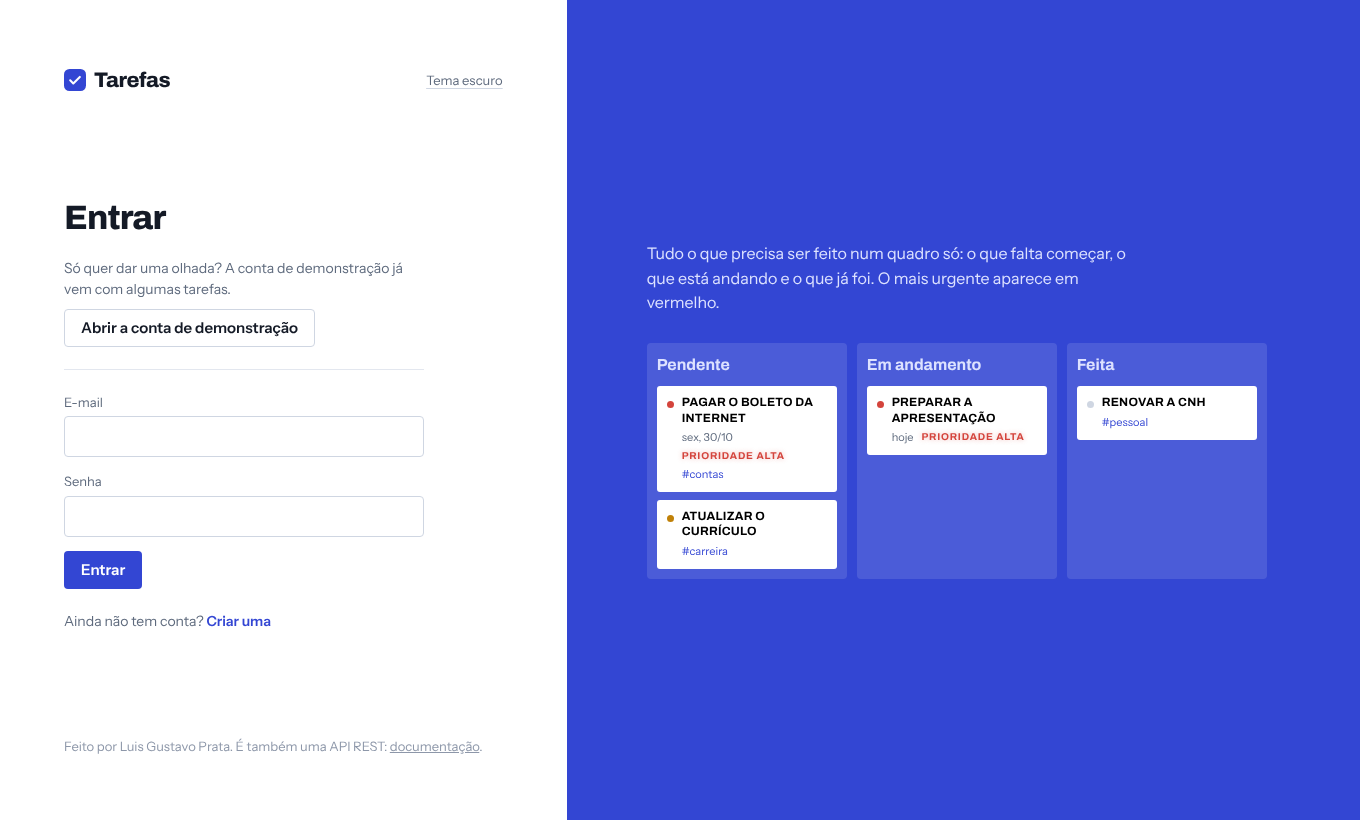
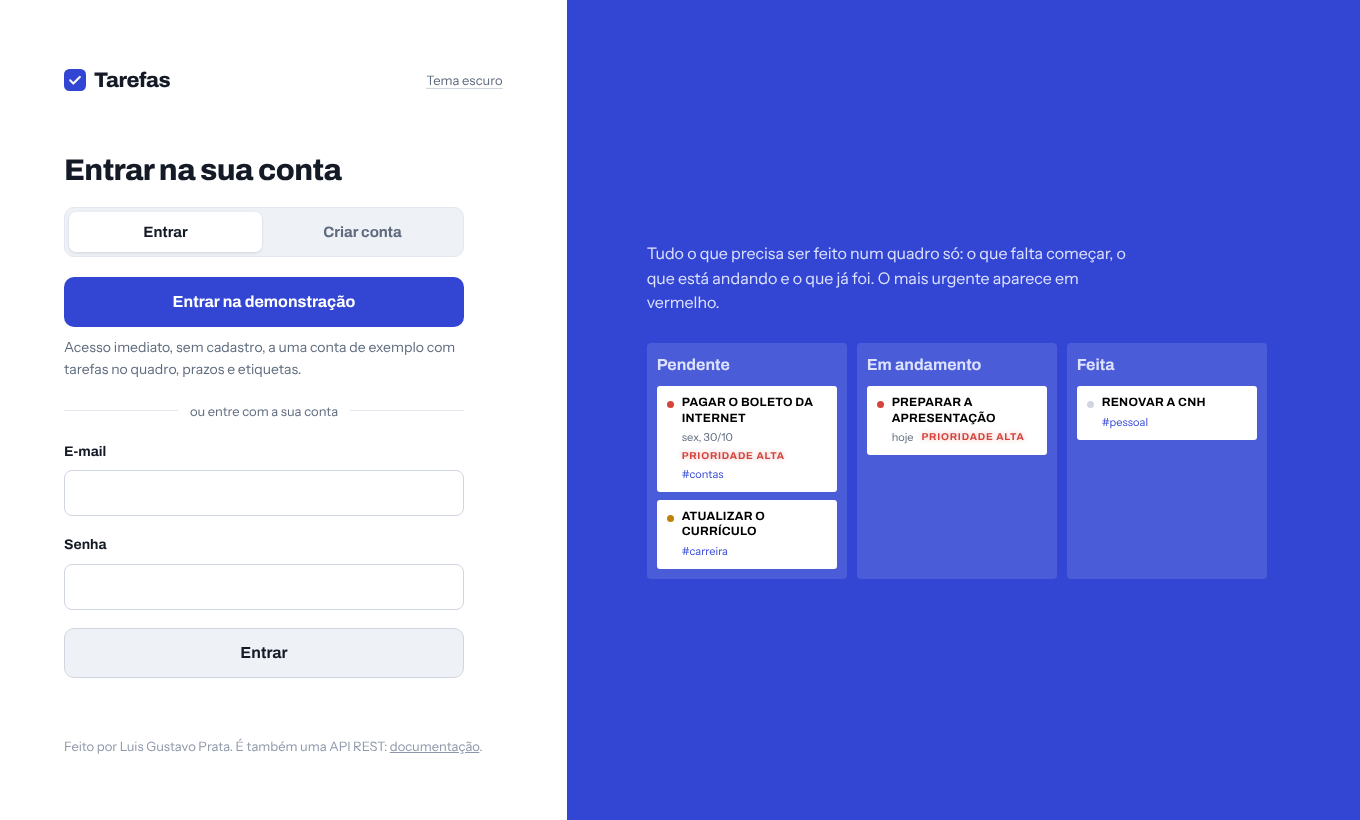
Nova tela de entrada: abas Entrar/Criar conta e demonstração em destaque
Título "Entrar na sua conta", abas, botão grande "Entrar na demonstração",
divisor "ou entre com a sua conta" e campos maiores, no azul do site.

Claude-Session: https://claude.ai/code/session_01LiHwS4HZUZgBoyyaKq9JBM

diff --git a/app/static/app.js b/app/static/app.js
@@ -249,7 +249,8 @@ function renderAuth(mode = "login") {
   const isLogin = mode === "login";
   const error = h("p", { class: "error", role: "alert" });
 
-  const demo = h("button", { class: "btn btn--plain", type: "button" }, "Abrir a conta de demonstração");
+  const DEMO_LABEL = "Entrar na demonstração";
+  const demo = h("button", { class: "btn btn--primary auth__big", type: "button" }, DEMO_LABEL);
   demo.addEventListener("click", async () => {
     demo.disabled = true;
     demo.textContent = "Abrindo…";
@@ -258,18 +259,19 @@ function renderAuth(mode = "login") {
     } catch (err) {
       error.textContent = err.message;
       demo.disabled = false;
-      demo.textContent = "Abrir a conta de demonstração";
+      demo.textContent = DEMO_LABEL;
     }
   });
 
-  const input = (label, attrs) => h("label", null, h("span", { class: "label" }, label), h("input", { class: "input", required: true, ...attrs }));
-  const form = h("form", { class: "form", novalidate: true },
+  const input = (label, attrs) => h("label", null, h("span", { class: "auth__label" }, label), h("input", { class: "input auth__input", required: true, ...attrs }));
+  const form = h("form", { class: "form auth__fields", novalidate: true },
     !isLogin && input("Como quer ser chamado", { name: "name", autocomplete: "name" }),
     input("E-mail", { name: "email", type: "email", autocomplete: "email" }),
     input("Senha", { name: "password", type: "password", autocomplete: isLogin ? "current-password" : "new-password" }),
     !isLogin && h("p", { class: "auth__note" }, "A senha precisa de pelo menos 8 caracteres."),
     error,
-    h("div", null, h("button", { class: "btn btn--primary", type: "submit" }, isLogin ? "Entrar" : "Criar a conta")));
+    // No login, o destaque é da demonstração; o botão da conta fica discreto, como no modelo.
+    h("button", { class: `btn auth__big ${isLogin ? "btn--plain auth__soft" : "btn--primary"}`, type: "submit" }, isLogin ? "Entrar" : "Criar a conta"));
 
   form.addEventListener("submit", async (event) => {
     event.preventDefault();
@@ -286,6 +288,12 @@ function renderAuth(mode = "login") {
     }
   });
 
+  const tab = (name, label) => h("button", {
+    class: "auth__tab", type: "button", role: "tab", "aria-selected": String(mode === name),
+    onclick: () => mode !== name && renderAuth(name),
+  }, label);
+  const tabs = h("div", { class: "auth__tabs", role: "tablist" }, tab("login", "Entrar"), tab("register", "Criar conta"));
+
   const themeBtn = h("button", { class: "text-btn", type: "button", "data-theme-btn": true, onclick: toggleTheme }, themeLabel());
 
   fill(root(), h("div", { class: "auth" },
@@ -293,13 +301,13 @@ function renderAuth(mode = "login") {
       h("div", { class: "auth__top" },
         h("span", { class: "wordmark" }, h("img", { src: "/static/icon.svg", alt: "" }), "Tarefas"), themeBtn),
       h("div", { class: "auth__form" },
-        h("h1", { class: "auth__title" }, isLogin ? "Entrar" : "Criar conta"),
+        h("h1", { class: "auth__title" }, isLogin ? "Entrar na sua conta" : "Criar sua conta"),
+        tabs,
         isLogin && h("div", { class: "auth__demo" },
-          h("p", { class: "auth__note" }, "Só quer dar uma olhada? A conta de demonstração já vem com algumas tarefas."),
-          h("div", null, demo)),
-        form,
-        h("p", { class: "auth__note" }, isLogin ? "Ainda não tem conta? " : "Já tem conta? ",
-          h("button", { class: "link", type: "button", onclick: () => renderAuth(isLogin ? "register" : "login") }, isLogin ? "Criar uma" : "Entrar"))),
+          demo,
+          h("p", { class: "auth__note" }, "Acesso imediato, sem cadastro, a uma conta de exemplo com tarefas no quadro, prazos e etiquetas.")),
+        isLogin && h("div", { class: "auth__or" }, h("span", null, "ou entre com a sua conta")),
+        form),
       h("p", { class: "auth__foot" }, "Feito por Luis Gustavo Prata. É também uma API REST: ", h("a", { href: "/docs" }, "documentação"), ".")),
     h("section", { class: "auth__right", "aria-label": "Como funciona" },
       h("p", null, "Tudo o que precisa ser feito num quadro só: o que falta começar, o que está andando e o que já foi. O mais urgente aparece em vermelho."),

diff --git a/app/static/app.css b/app/static/app.css
@@ -122,10 +122,33 @@ svg { flex: none; width: 16px; height: 16px; }
 .auth { min-height: 100vh; display: grid; grid-template-columns: minmax(340px, 5fr) 7fr; }
 .auth__left { padding: clamp(28px, 5vw, 64px); display: flex; flex-direction: column; gap: 44px; background: var(--panel); }
 .auth__top { display: flex; justify-content: space-between; align-items: center; }
-.auth__form { width: 100%; max-width: 360px; display: grid; gap: 22px; margin: auto 0; }
-.auth__title { font-family: var(--display); font-weight: 800; font-size: 34px; line-height: 1.05; letter-spacing: -0.025em; }
-.auth__note { color: var(--muted); font-size: 14px; }
-.auth__demo { display: grid; gap: 8px; padding-bottom: 22px; border-bottom: 1px solid var(--line); }
+.auth__form { width: 100%; max-width: 400px; display: grid; gap: 20px; margin: auto 0; }
+.auth__title { font-family: var(--display); font-weight: 800; font-size: clamp(26px, 2.4vw, 30px); line-height: 1.1; letter-spacing: -0.02em; }
+.auth__note { color: var(--muted); font-size: 14px; line-height: 1.55; }
+
+/* Abas Entrar / Criar conta */
+.auth__tabs { display: grid; grid-template-columns: 1fr 1fr; gap: 4px; padding: 4px; border-radius: 10px; background: var(--sunken); border: 1px solid var(--line); }
+.auth__tab {
+  min-height: 40px; border: 0; border-radius: 7px; background: none; cursor: pointer;
+  font-family: var(--display); font-weight: 700; font-size: 15px; color: var(--muted);
+}
+.auth__tab:hover { color: var(--ink); }
+.auth__tab[aria-selected="true"] { background: var(--surface); color: var(--ink); box-shadow: 0 1px 3px rgba(15, 23, 42, 0.12); }
+
+/* Botões grandes de largura total */
+.auth__big { width: 100%; min-height: 50px; border-radius: 10px; font-family: var(--display); font-weight: 700; font-size: 16px; }
+.auth__soft { background: var(--sunken); }
+.auth__soft:hover:not(:disabled) { border-color: var(--accent); color: var(--accent); }
+.auth__demo { display: grid; gap: 10px; }
+
+/* "ou entre com a sua conta" entre duas linhas */
+.auth__or { display: flex; align-items: center; gap: 12px; color: var(--muted); font-size: 13px; }
+.auth__or::before, .auth__or::after { content: ""; flex: 1; height: 1px; background: var(--line); }
+
+.auth__fields { gap: 18px; }
+.auth__fields label { gap: 8px; }
+.auth__label { font-family: var(--display); font-weight: 700; font-size: 14px; color: var(--ink); }
+.auth__input { min-height: 46px; border-radius: 8px; padding: 10px 14px; }
 .auth__foot { font-size: 13px; color: var(--faint); }
 .auth__foot a { color: inherit; }
 
